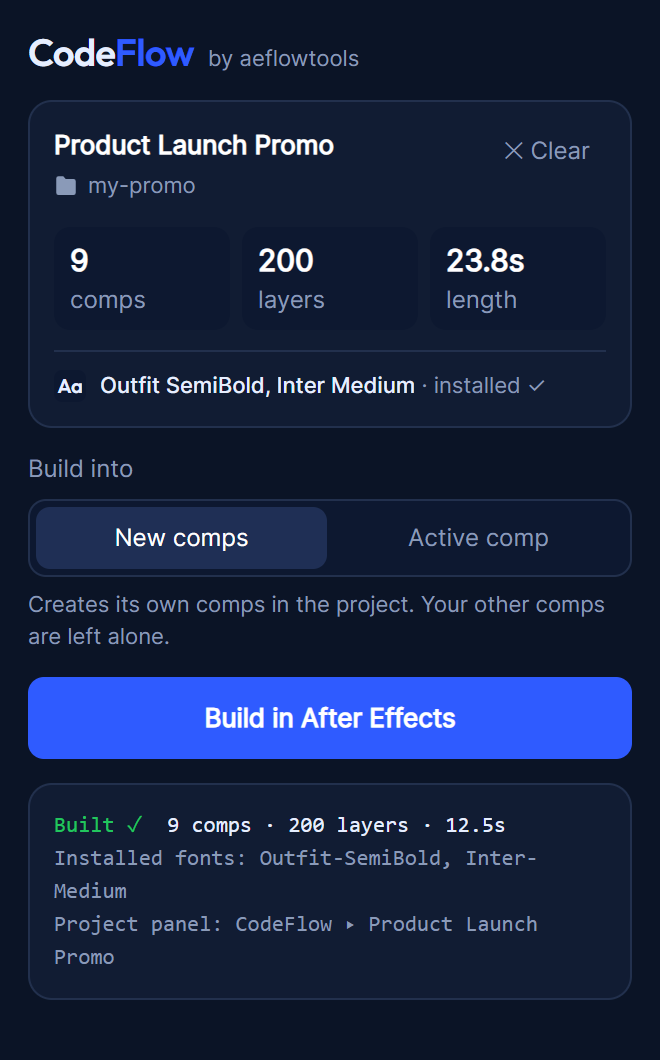
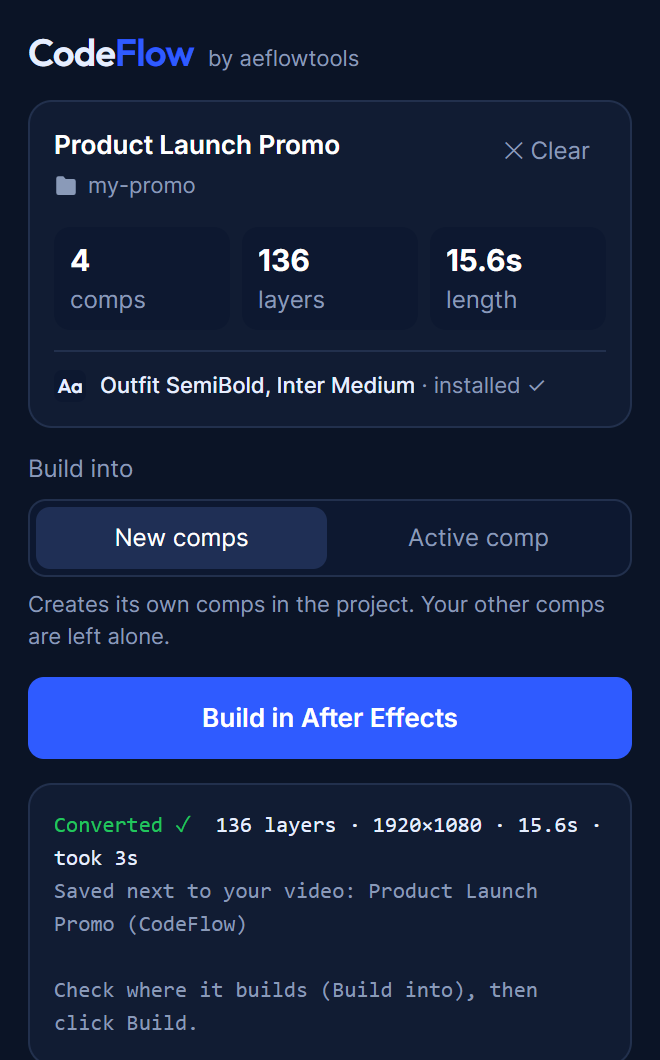
CodeFlow page: v1.1.0 download + new workflow (drop an HTML video on the panel, no AI, Chrome/Edge needed); still hidden behind the preview gate

diff --git a/codeflow/index.html b/codeflow/index.html
@@ -25,10 +25,10 @@
     "name": "CodeFlow",
     "applicationCategory": "MultimediaApplication",
     "description": "Turns motion videos made with Claude into native, editable Adobe After Effects comps.",
-    "softwareRequirements": "Adobe After Effects 2022 or newer",
+    "softwareRequirements": "Adobe After Effects 2022 or newer, Google Chrome or Microsoft Edge",
     "url": "https://www.aeflowtools.com/codeflow",
     "publisher": { "@type": "Organization", "name": "AE Flow Tools", "url": "https://www.aeflowtools.com" },
-    "downloadUrl": "https://pub-4536720a8def4fdaaf275e0e5079ddfd.r2.dev/Code%20flow/CodeFlow%20v1.0.0.zip",
+    "downloadUrl": "https://pub-4536720a8def4fdaaf275e0e5079ddfd.r2.dev/Code%20flow/CodeFlow%20v1.1.0.zip",
     "offers": [
       { "@type": "Offer", "name": "Free trial (3 builds)", "price": "0", "priceCurrency": "USD", "url": "https://www.aeflowtools.com/codeflow" },
       { "@type": "Offer", "name": "CodeFlow license", "price": "20.00", "priceCurrency": "USD", "url": "https://aeflowtools.gumroad.com/l/gygsdc" }
@@ -179,7 +179,7 @@
         real text, real keyframes, real layers. Nothing flattened, nothing to rebuild.
       </p>
       <div class="hero-actions">
-        <a class="btn btn-primary" href="https://pub-4536720a8def4fdaaf275e0e5079ddfd.r2.dev/Code%20flow/CodeFlow%20v1.0.0.zip" download onclick="window.fbq&&fbq('track','Lead')">Download free <span class="arrow">↓</span></a>
+        <a class="btn btn-primary" href="https://pub-4536720a8def4fdaaf275e0e5079ddfd.r2.dev/Code%20flow/CodeFlow%20v1.1.0.zip" download onclick="window.fbq&&fbq('track','Lead')">Download free <span class="arrow">↓</span></a>
         <a class="btn btn-ghost" href="#how">See how it works</a>
       </div>
       <div class="cf-note">Free to try: 3 builds on us, then <a href="#buy" style="text-decoration:underline"><span data-cf-price>$20</span> lifetime license</a> · After Effects 2022 or newer</div>
@@ -188,22 +188,22 @@
         <div class="cf-node">
           <small>1 · Claude</small>
           <b>Say the magic words</b>
-          <p>Convert a video you already made, or start a new one.</p>
+          <p>Claude writes your video as one HTML file. Make a new one, or prepare one you already have.</p>
           <div class="cf-prompt">make it for CodeFlow</div>
         </div>
         <div class="cf-arrow" aria-hidden="true">→</div>
         <div class="cf-node">
-          <small>2 · One file</small>
-          <b>A single .codeflow file</b>
-          <p>Layers, keyframes, fonts, images and clips, all packed together.</p>
-          <div class="cf-file"><img src="/codeflow/codeflow-icon.svg" alt="" width="20" height="20" /> my-promo.codeflow</div>
+          <small>2 · Drop it in</small>
+          <b>Converted in seconds</b>
+          <p>Drag the HTML onto the CodeFlow panel. It reads every frame itself: no AI, no tokens.</p>
+          <div class="cf-file"><img src="/codeflow/codeflow-icon.svg" alt="" width="20" height="20" /> my-promo.html</div>
         </div>
         <div class="cf-arrow" aria-hidden="true">→</div>
         <div class="cf-node">
           <small>3 · After Effects</small>
           <b>Native, editable comps</b>
-          <p>Open it in the CodeFlow panel and click Build.</p>
-          <div class="cf-tags"><span>Text</span><span>Shapes</span><span>Footage</span><span>Precomps</span></div>
+          <p>Click Build. Real text, keyframes and layers, with camera moves on parent layers.</p>
+          <div class="cf-tags"><span>Text</span><span>Shapes</span><span>Images</span><span>Precomps</span></div>
         </div>
       </div>
     </div>
@@ -222,15 +222,15 @@
             <div class="n">1</div>
             <div>
               <h4>Make it with Claude</h4>
-              <p>Add the free CodeFlow skill to Claude, then ask it to <code>make it for CodeFlow</code>. Claude gives you one <code>.codeflow</code> file and tells you exactly where it saved it.</p>
-              <p style="margin-top:8px"><strong style="color:var(--text)">Starting a new video?</strong> Ask for it to be built in CodeFlow from the start: <code>make a new video for CodeFlow</code>. It skips the "rebuild an existing video" work, so it usually costs less time and fewer tokens than converting a video you already made.</p>
+              <p>Add the free CodeFlow skill to Claude, then ask it to <code>make it for CodeFlow</code>. Claude writes your video as one HTML file, tells you exactly where it saved it, and you can watch it in Chrome right away.</p>
+              <p style="margin-top:8px"><strong style="color:var(--text)">Cheap and fast.</strong> Claude only writes the video. The conversion to After Effects is done by the CodeFlow panel, without AI, so you don't pay tokens or wait for it. There is nothing to run and nothing to install on top of the skill.</p>
             </div>
           </div>
           <div class="cf-step">
             <div class="n">2</div>
             <div>
               <h4>Open it in After Effects</h4>
-              <p>Go to <strong>Window → Extensions → CodeFlow</strong> and drop the file in. You see what's inside before you build.</p>
+              <p>Go to <strong>Window → Extensions → CodeFlow</strong> and drag the HTML file onto the panel. It converts in a few seconds (a 15-second video takes about 3) and tells you if anything could not be converted exactly.</p>
             </div>
           </div>
           <div class="cf-step">
@@ -271,18 +271,18 @@
         </div>
         <div class="feature">
           <div class="ficon">▶</div>
-          <h4>Footage stays footage</h4>
-          <p>Stock clips and videos come in as real footage layers with the same trim, speed and loop. Never stretched.</p>
+          <h4>Converted in seconds, no AI</h4>
+          <p>The panel reads your video frame by frame itself. A 15-second video converts in about 3 seconds, so there are no tokens to pay and nothing to wait for.</p>
         </div>
         <div class="feature">
           <div class="ficon">▤</div>
           <h4>Organized like a pro</h4>
-          <p>One precomp per scene, named layers, and a tidy project folder for every build.</p>
+          <p>A precomp for every clipped area, parent layers that carry camera moves, named layers, and a tidy project folder for every build.</p>
         </div>
         <div class="feature">
           <div class="ficon">✓</div>
           <h4>Looks like the original</h4>
-          <p>In our tests, builds match the video Claude made at about 98–99% frame similarity.</p>
+          <p>In our tests, converted videos match the video Claude made at about 96–99% frame similarity, and the panel lists anything it could not convert exactly.</p>
         </div>
       </div>
     </div>
@@ -300,15 +300,16 @@
           <img src="/codeflow/codeflow-icon.svg" alt="" width="64" height="64" style="border-radius:16px; flex:none;" />
           <div>
             <b>CodeFlow for After Effects</b>
-            <small>Version <span data-ver>1.0.0</span> · After Effects 2022 or newer · Free to download</small>
+            <small>Version <span data-ver>1.1.0</span> · After Effects 2022 or newer · Free to download</small>
           </div>
-          <a class="btn btn-primary" href="https://pub-4536720a8def4fdaaf275e0e5079ddfd.r2.dev/Code%20flow/CodeFlow%20v1.0.0.zip" download onclick="window.fbq&&fbq('track','Lead')">Download <span class="arrow">↓</span></a>
+          <a class="btn btn-primary" href="https://pub-4536720a8def4fdaaf275e0e5079ddfd.r2.dev/Code%20flow/CodeFlow%20v1.1.0.zip" download onclick="window.fbq&&fbq('track','Lead')">Download <span class="arrow">↓</span></a>
         </div>
         <ol class="cf-dl-steps">
-          <li>Unzip the download. Inside: the installer (<code>CodeFlow-<span data-ver>1.0.0</span>.zxp</code>), the Claude skill, and a PDF manual.</li>
+          <li>Unzip the download. Inside: the installer (<code>CodeFlow-<span data-ver>1.1.0</span>.zxp</code>), the Claude skill, and a PDF manual.</li>
           <li>Open the <code>.zxp</code> file with a free ZXP installer, such as the <a class="cf-link" style="margin:0" href="https://aescripts.com/learn/post/zxp-installer" target="_blank" rel="noopener">aescripts ZXP Installer</a>.</li>
           <li>Restart After Effects.</li>
           <li>Open <strong>Window → Extensions → CodeFlow</strong>. You're ready: you have 3 free builds.</li>
+          <li>Make sure <strong>Google Chrome or Microsoft Edge</strong> is installed (free). CodeFlow uses it quietly in the background to read your video.</li>
         </ol>
       </div>
     </div>
@@ -319,7 +320,7 @@
     <div class="container">
       <div class="section-head">
         <h2>Step 2: add the free skill to Claude</h2>
-        <p>The CodeFlow skill teaches Claude how to make files that open in After Effects. It's free and open on GitHub.</p>
+        <p>The CodeFlow skill teaches Claude how to write your video so the CodeFlow panel can convert it. It's free, tiny, and open on GitHub.</p>
       </div>
       <div class="cf-two">
         <div class="cf-card">
@@ -341,11 +342,11 @@
         </div>
       </div>
       <div class="cf-need">
-        <span>Claude desktop app (Code tab) or Claude Code</span>
-        <span>Node.js 18 or newer</span>
-        <span>Google Chrome or Edge (for previews)</span>
+        <span>Any Claude: the app, the Code tab or Claude Code</span>
+        <span>No Node.js, no ffmpeg, no setup</span>
+        <span>Google Chrome or Edge (the panel uses it to read the video)</span>
       </div>
-      <div class="cf-tip"><b>Tip</b><span>For the best speed, run Claude <b>on your own computer</b>: open the Claude desktop app, go to the <b>Code</b> tab and choose <b>Local</b> (or use Claude Code in a terminal). The Code tab on claude.ai in a browser runs in the cloud, so it can't see your files and is much slower.</span></div>
+      <div class="cf-tip"><b>Tip</b><span>Claude only has to <b>write one file</b>, so any way of using Claude works, including normal chat. The conversion itself happens in the CodeFlow panel on your computer, in seconds, with no AI.</span></div>
     </div>
   </section>
 
@@ -369,7 +370,7 @@
             <li><span class="ck">✓</span> Real After Effects comps, yours to keep</li>
           </ul>
 
-          <a class="btn btn-ghost" href="https://pub-4536720a8def4fdaaf275e0e5079ddfd.r2.dev/Code%20flow/CodeFlow%20v1.0.0.zip" download style="width:100%; justify-content:center;" onclick="window.fbq&&fbq('track','Lead')">
+          <a class="btn btn-ghost" href="https://pub-4536720a8def4fdaaf275e0e5079ddfd.r2.dev/Code%20flow/CodeFlow%20v1.1.0.zip" download style="width:100%; justify-content:center;" onclick="window.fbq&&fbq('track','Lead')">
             Download free <span class="arrow">↓</span>
           </a>
           <div class="pro-note">Install it, then ask Claude for your first file.</div>
@@ -441,13 +442,13 @@
         <details>
           <summary>Do I need Claude?</summary>
           <div class="cmp-body">
-            <p style="color:var(--muted)">Yes. CodeFlow opens the files that Claude makes with the free CodeFlow skill. For the best results use the <b>Code tab of the Claude desktop app with Local selected</b>, or Claude Code in a terminal, because Claude can then preview and check its work on your own computer. The Code tab in a web browser runs in the cloud, so it is much slower, and normal Claude chat can't run the tools at all. CodeFlow adds no AI cost of its own.</p>
+            <p style="color:var(--muted)">Yes, to make the video. With the free CodeFlow skill, Claude writes your video as one HTML file. Any way of using Claude works (the app, the Code tab, Claude Code), because Claude only has to write a file. The conversion to After Effects is done by the CodeFlow panel itself, in seconds, without AI, so CodeFlow adds no AI cost of its own.</p>
           </div>
         </details>
         <details>
           <summary>Can I convert a video I already made?</summary>
           <div class="cmp-body">
-            <p style="color:var(--muted)">Yes. Videos made with HTML, SVG, CSS, GSAP or JavaScript work, including images and stock clips. Point Claude at the file and say <code>make this for CodeFlow</code>. For new videos there is a cheaper way: ask Claude to build the video in CodeFlow from the start (<code>make a new video for CodeFlow</code>). It skips the "rebuild an existing video" work, so it usually costs less time and fewer tokens than converting, and you get an MP4 preview and the editable file together.</p>
+            <p style="color:var(--muted)">Usually, yes. A video made with HTML, SVG or CSS that can jump to any moment in time (a <code>seek(t)</code> function, or plain CSS animations) can be dropped on the panel as it is. If the panel says it can't step through your video, tell Claude <code>make this ready for CodeFlow</code> and it adds the missing piece. Stock footage and screen recordings are placed in After Effects by you; canvas, WebGL and 3D are not converted.</p>
           </div>
         </details>
         <details>
@@ -459,7 +460,7 @@
         <details>
           <summary>Will it look exactly like my video?</summary>
           <div class="cmp-body">
-            <p style="color:var(--muted)">In our tests, builds match the original at about 98–99% frame similarity. Things After Effects can't do natively, such as 3D or WebGL scenes and canvas particle effects, come in as pictures, and Claude tells you when that happens.</p>
+            <p style="color:var(--muted)">In our tests, converted videos match the original at about 96–99% frame similarity, and the panel tells you what it could not convert exactly. Things After Effects can't do natively, such as 3D, WebGL, canvas and blend modes, are not converted. A fade on a whole group is applied to each part, so overlaps can look slightly different in the middle of a fast fade.</p>
           </div>
         </details>
         <details>
